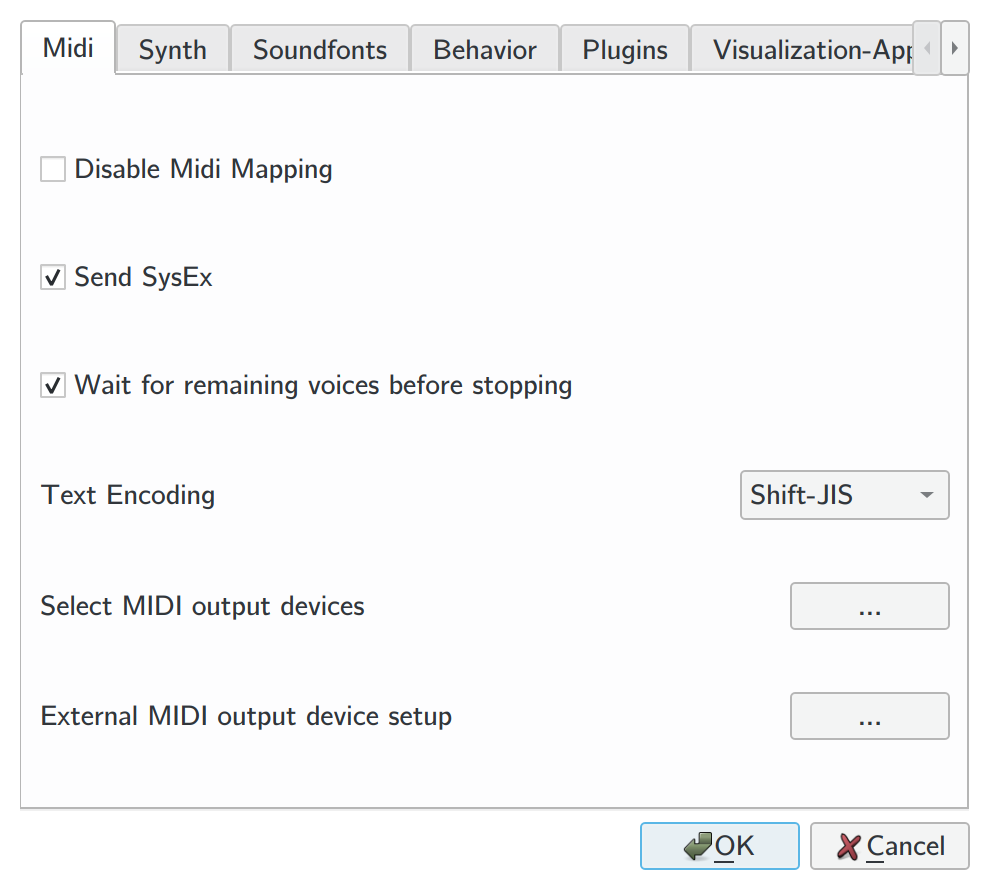
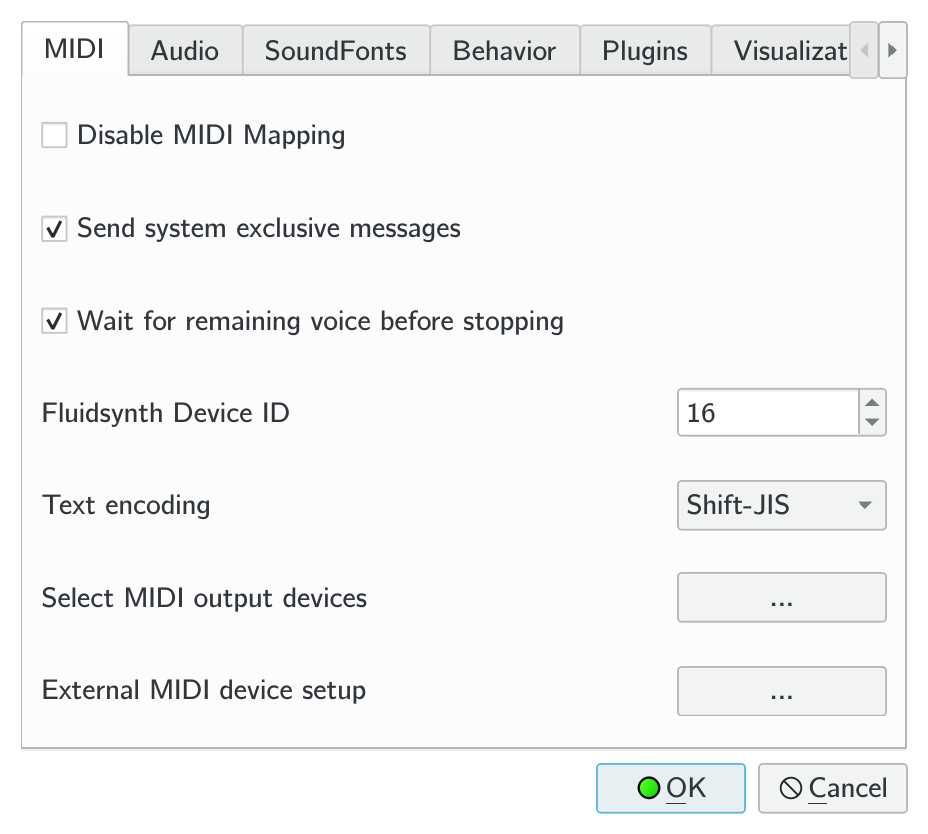
Document the device id option.

diff --git a/doc/optionsdialog.html b/doc/optionsdialog.html
@@ -26,14 +26,21 @@
 	<h1>Settings Dialog</h1>
 	Options with one asterisk will be applied after QMidiPlayer is restarted.<br>
 	Options with two asterisks will be applied after the internal fluidsynth is restarted.<br>
-	Other options are applied immediately.<br>
+	Other options take effect immediately (or when the next track is played).<br>
 	<img src="../img/options1.png" width="440"><br>
 	<ul>
 		<li>Disable Midi Mapping*: only use the default output device.</li>
 		<li>Send SysEx: whether to send system exclusive messages or not.</li>
 		<li>Wait for remaining voices before stopping:<br>
-		If checked, the player will not stop until the current polyphone reaches 0.<br>
-		Otherwise it will stop immediately after the last event is sent.
+		If checked, the player will not stop until the current polyphone reaches 0 and
+		the output is silent. Otherwise it will stop immediately after the last event is sent.
+		This option is only effective if the internal Fluidsynth output is used.
+		</li>
+		<li>Fluidsynth Device ID: Device ID of the internal Fluidsynth.<br>
+		This will affect how the internal Fluidsynth handles system exclusive messages.
+		The value is 0-based, as they are in actual system exclusive messages.
+		Please note that some synthesizers use an 1-based value for their user interface.
+		For playback of most GS files, this should be set to 16.
 		</li>
 		<li>Text encoding: text encoding used in the midi file.</li>
 		<li>Select MIDI output devices*: Choose the MIDI devices to use for default device selection.<br>
